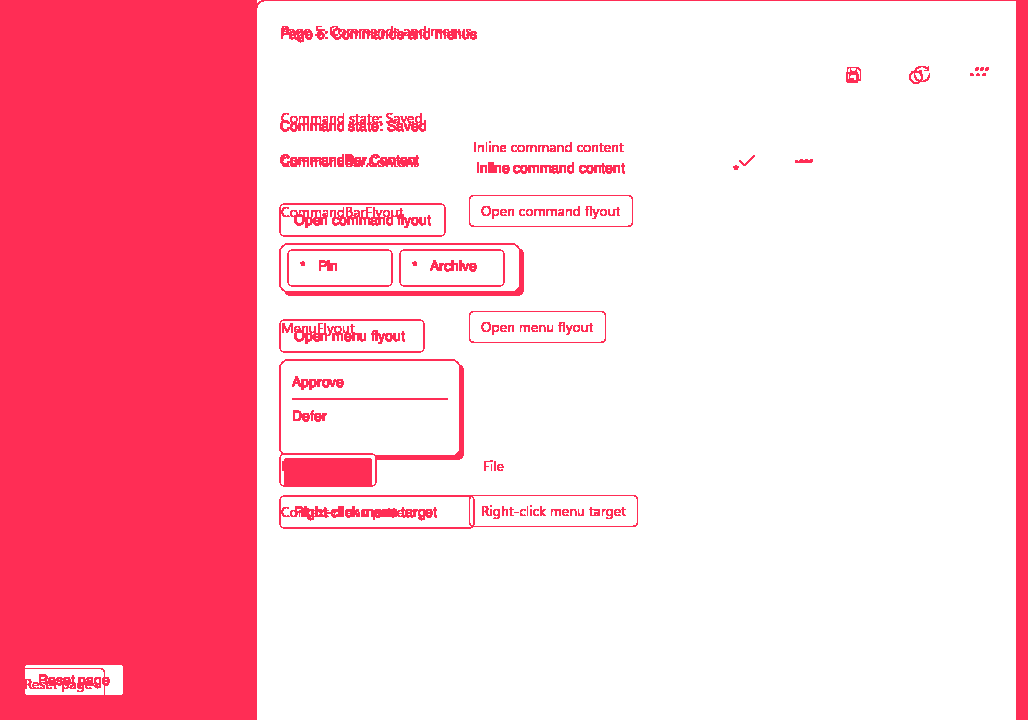
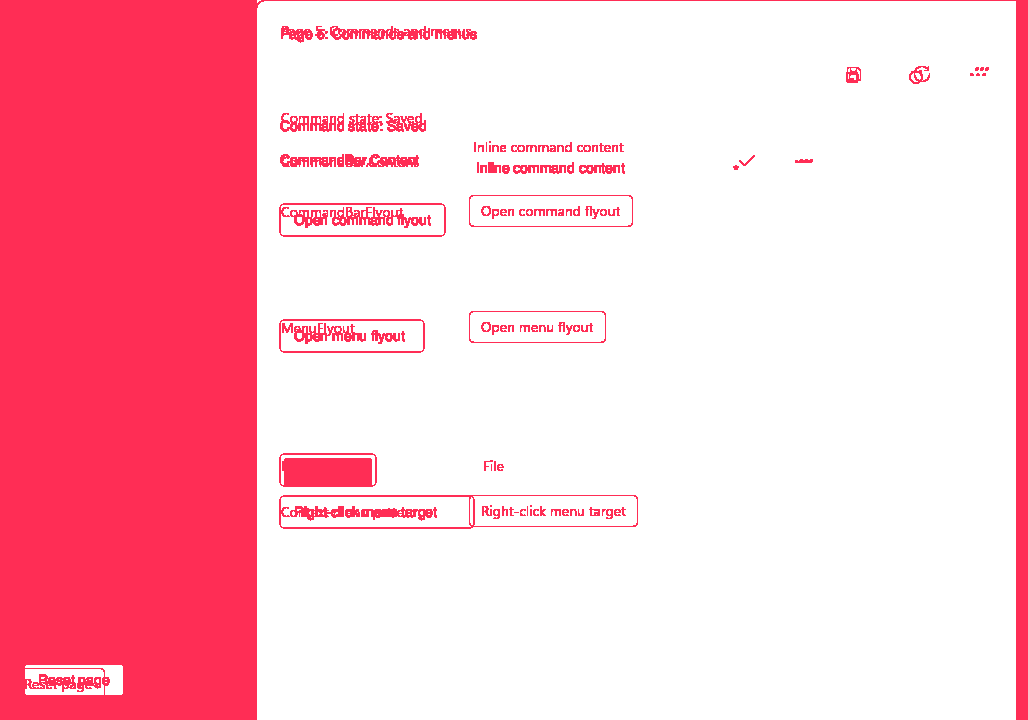
fix: keep commands menu evidence static

Changed region(s): [[0.2802, 0.3361, 0.5292, 0.4278], [0.3735, 0.5194, 0.4669, 0.6417], [0.2802, 0.5194, 0.3424, 0.5806]]

diff --git a/docs/visual-parity/examples/component-commands-menus-light/visual-review.html b/docs/visual-parity/examples/component-commands-menus-light/visual-review.html
@@ -197,7 +197,7 @@ img { display: block; max-width: 100%; height: auto; margin: 0 auto; }
 </figure>
 </div>
 <p class="notes">Native reference integrity: Native and macOS crop dimensions differ. Native crop is 164x32; macOS crop is 165x32. Phase -1 does not normalize crop sizes.</p>
-<p class="notes">Reviewed native WinUI, macOS runtime, and diff crops. Retained the documented source-level harness grade; nativeQualityGrade remains not-evaluated because the current renderer evidence does not establish native-quality WinUI parity. Documented gaps: CommandBarFlyout open state and command invocation are supported for clean-room smoke scenarios; native placement, overflow, and dismissal semantics remain partial.</p>
+<p class="notes">Reviewed native WinUI, macOS runtime, and diff crops. Retained the documented source-level harness grade; nativeQualityGrade remains not-evaluated because the current renderer evidence only establishes a visible static CommandBarFlyout host target, not native-quality popup parity. Documented gaps: CommandBarFlyout exports a visible host target in the static command fixture; open popup state, command invocation, native placement, overflow, and dismissal semantics remain partial and are not promoted by this base evidence.</p>
 </section>
 <section class="component">
 <h2>MenuFlyout <code>DiagnosticMenuFlyout</code></h2>
@@ -230,7 +230,7 @@ img { display: block; max-width: 100%; height: auto; margin: 0 auto; }
 </figure>
 </div>
 <p class="notes">Native reference integrity: Native and macOS crop dimensions differ. Native crop is 137x32; macOS crop is 144x32. Phase -1 does not normalize crop sizes.</p>
-<p class="notes">Reviewed native WinUI, macOS runtime, and diff crops. Retained the documented source-level harness grade; nativeQualityGrade remains not-evaluated because the current renderer evidence does not establish native-quality WinUI parity. Documented gaps: MenuFlyout open state and item invocation are supported for clean-room smoke scenarios; native placement, keyboarding, and dismissal semantics remain partial.</p>
+<p class="notes">Reviewed native WinUI, macOS runtime, and diff crops. Retained the documented source-level harness grade; nativeQualityGrade remains not-evaluated because the current renderer evidence only establishes a visible static MenuFlyout host target, not native-quality popup parity. Documented gaps: MenuFlyout exports a visible host target in the static command fixture; open popup state, item invocation, native placement, keyboarding, and dismissal semantics remain partial and are not promoted by this base evidence.</p>
 </section>
 <section class="component">
 <h2>MenuBar <code>DiagnosticMenuBar</code></h2>

diff --git a/tests/WinUI3.MacRuntime.Tests/MacRuntimeTests.cs b/tests/WinUI3.MacRuntime.Tests/MacRuntimeTests.cs
@@ -2236,6 +2236,36 @@ public sealed class MacRuntimeTests
     }
 
     [TestMethod]
+    public async Task PublicCommandsMenusScenarioKeepsPopupStateOutOfStaticNativeReference()
+    {
+        var scenarioPath = Path.Combine(
+            FindRepositoryRoot(),
+            "fixtures",
+            "ComponentParityLab.WinUI",
+            "scenarios",
+            "component-commands-menus-light.json");
+        var scenario = await VisualScenario.LoadAsync(scenarioPath);
+        var popupInteractionTypes = new[] { "openPopup", "invokeMenuItem" };
+
+        foreach (var action in scenario.Interactions)
+        {
+            CollectionAssert.DoesNotContain(
+                popupInteractionTypes,
+                action.Type,
+                "The public commands/menus base scenario is static native-reference evidence; open popup state belongs in explicit open-popup diagnostics.");
+        }
+
+        foreach (var requirement in scenario.Requirements.Where(requirement =>
+            requirement.Component is "CommandBarFlyout" or "MenuFlyout"))
+        {
+            CollectionAssert.DoesNotContain(
+                requirement.RequiredProperties.ToArray(),
+                "open-popup",
+                $"'{requirement.Component}' must not require open-popup evidence in the static public commands/menus scenario.");
+        }
+    }
+
+    [TestMethod]
     public async Task ComponentLabScenariosCoverDownstreamSourceAuditGaps()
     {
         var repositoryRoot = FindRepositoryRoot();

diff --git a/docs/compatibility/component-support.md b/docs/compatibility/component-support.md
@@ -108,7 +108,7 @@ Latest inspected native comparison counts:
 | `component-basic-input-light` / `component-basic-input-checked-light` | Native-reference strict visual comparison for the base light scenario is checked in and currently fails the native-quality threshold; checked-state native comparison remains a CI artifact concern. | Base scenario has 13 `usable` rows and zero `not-rendered` rows; checked-state scenario has 3 `usable`. Component targets include layout regions; native chrome remains approximate and not manually promoted. |
 | `component-status-pickers-light` / `component-status-pickers-loading-light` / `component-status-pickers-success-light` | Local strict runs passed without a local Windows reference path; native reference comparison remains a CI artifact concern. | Base scenario has 3 `usable`, 7 planned `not-rendered`; loading and success scenarios add 4 `usable` state rows. Success-state evidence was regenerated with nonblank crops for `InfoBar` and `ProgressBar`. |
 | `component-dialogs-flyouts-light` | Local strict run passed without a local Windows reference path; native reference comparison remains a CI artifact concern. | `ContentDialog`, `Flyout`, and `ToolTip` are `usable` with passed open/dismiss interaction evidence; `TeachingTip` and tooltip service remain planned `not-rendered`. |
-| `component-commands-menus-light` | Native-reference strict visual comparison is checked in and currently fails the native-quality threshold. | 8 `usable` rows and zero `not-rendered`; `CommandBarFlyout` and `MenuFlyout` have passed open/invoke interaction evidence, while `CommandBar.Content`, `MenuBar`, and context menu target export remain static partial evidence. |
+| `component-commands-menus-light` | Native-reference strict visual comparison is checked in and currently fails the native-quality threshold. | 8 `usable` rows and zero `not-rendered`; `CommandBarFlyout` and `MenuFlyout` are static host-target evidence in this public comparison, while open/invoke popup behavior remains separate source-level diagnostic evidence until matching native popup reference capture exists. |
 | `component-layout-media-light` | Native-reference strict visual comparison is checked in and currently fails the native-quality threshold. | 21 `usable`, 7 planned/non-goal `not-rendered`, including usable `SymbolIcon`, `XamlControlsResources`, `Color`, `Expander`, annotated scrollbar, `SemanticZoom`, `SplitView`, `TwoPaneView`, theme dictionary, `ThemeResource`, `SolidColorBrush`, and `CornerRadius` evidence with layout regions. |
 | `component-layout-media-dark` / `component-layout-media-high-contrast` | Local strict runs passed without local Windows reference paths; native reference comparison remains a CI artifact concern. | 6 `usable` resource/layout smoke targets in each theme; `ThemeResource` resolves to theme-specific foreground values. |
 | `public-admin-workbench-light` | Local strict run passed without a local Windows reference path; native reference comparison remains a CI artifact concern. | 9 `usable`, no missing component regions; visually it is a simplified workbench scaffold, not native-quality parity. |
@@ -126,8 +126,8 @@ Latest inspected native comparison counts:
 | `NavigationViewItem` | partial | Content, tag metadata, selected state, tree export, and `skia-v2` item chrome are present. | Full Fluent item states and keyboarding remain gaps. |
 | `CommandBar` | supported | `PrimaryCommands`, command click simulation, public fixture ingestion, and `skia-v2` command surface rendering are present. | Overflow, pointer states, focus visuals, and exact native spacing remain gaps. |
 | `AppBarButton` | supported | Label, icon slot metadata, click event hookup, command-bar fixture coverage, and `skia-v2` label/icon chrome are present. | Overflow placement, focus visuals, and exact native command sizing remain gaps. |
-| `CommandBarFlyout` | partial | Open state, primary/secondary command export, `invokeMenuItem` command invocation, accessibility expanded state, and `skia-v2` popup chrome are present for public smoke scenarios. | Native placement, overflow, dismissal semantics, focus trapping, and full keyboarding remain gaps. |
-| `MenuFlyout` | partial | Open state, menu item export, `invokeMenuItem` item invocation, accessibility popup/menuitem roles, and `skia-v2` menu chrome are present for public smoke scenarios. | Native placement, light-dismiss, accelerator text, disabled item behavior, and full keyboarding remain gaps. |
+| `CommandBarFlyout` | partial | The public native comparison covers the visible static host target; source-level open/invoke smoke diagnostics exist but are not promoted as native visual popup evidence. | Native popup placement, overflow, dismissal semantics, focus trapping, and full keyboarding remain gaps. |
+| `MenuFlyout` | partial | The public native comparison covers the visible static host target; source-level open/invoke smoke diagnostics exist but are not promoted as native visual popup evidence. | Native popup placement, light-dismiss, accelerator text, disabled item behavior, and full keyboarding remain gaps. |
 | `Button` | supported | Content, command, click simulation, accessibility export, and `skia-v2` button chrome are present. | Native pressed, hover, focus, and template visuals remain approximate. |
 | `ToggleButton` | supported | Checked state, click behavior, and `skia-v2` checked/disabled chrome are present. | Native pressed, hover, focus, and template visuals remain approximate. |
 | `CheckBox` | supported | Checked state, tree export, accessibility role, and `skia-v2` glyph chrome are present. | Indeterminate state and full template visuals remain gaps. |

diff --git a/docs/release/production-evidence-view.md b/docs/release/production-evidence-view.md
@@ -88,7 +88,7 @@ Promotion is evidence-backed:
 | Phase 2: Component crop and reference tooling | Implemented | `component-evidence.json` carries crop metadata, native reference provenance, and effective per-component thresholds; `visual-run.json` points to the crop directory and generated visual review page; `visual-review.html` places native, macOS, and diff crops side by side with reference source/run/commit provenance; strict visual fails claimed supported/partial rows with missing, blank, `not-rendered`, or over-threshold crops. |
 | Phase 3: Fluent token and theme foundation | Implemented | `skia-v2` painters use a centralized token layer for light, dark, high contrast, typography, fills, strokes, status colors, focus, selected chrome, disabled surfaces, radius, and popup elevation. |
 | Phase 4: Ring 0 Windows chrome completion | Implemented for the documented source-level subset | Ring 0 strict scenarios cover shell, layout, text, commands, forms, workbench, status/progress, resources/theme, state scenarios, and artifacts; claimed supported/partial rows require at least `usable`. |
-| Phase 5: Ring 1 E2E visual completion | Implemented for claimed subsets | Open-popup, selected collection, and layout/theme scenarios cover claimed `MenuFlyout`, `CommandBarFlyout`, `MenuBar` static chrome, context-menu target export, `ContentDialog`, `Flyout`, `ToolTip`, collection hosts, theme dictionaries, `SolidColorBrush`, and `CornerRadius`; rich input, templates, broader keyboarding, advanced collections, `TeachingTip`, and menu popup behavior remain planned diagnostics. |
+| Phase 5: Ring 1 E2E visual completion | Implemented for claimed subsets | Static command/menu scenarios cover claimed `MenuFlyout` and `CommandBarFlyout` host targets, `MenuBar` static chrome, and context-menu target export; open-popup diagnostics remain source-level smoke evidence unless a matching native popup reference is captured. Selected collection and layout/theme scenarios cover collection hosts, theme dictionaries, `SolidColorBrush`, and `CornerRadius`; rich input, templates, broader keyboarding, advanced collections, `TeachingTip`, and menu popup behavior remain planned diagnostics. |
 | Phase 6: All-126 catalog closure | Implemented | `docs/compatibility/all-catalog-readiness-audit.json` accounts for all 126 entries with a per-entry production disposition, owner phase, primary blocker, evidence profile, and release gate; `winui3-mac-runner catalog-audit --check` fails on drift and the audit agrees with the inventory buckets. |
 | Phase 7: Broader WinUI control inventory | Inventory and gate implemented; controls pending promotion | `docs/compatibility/winui-component-inventory.json` `broaderControlInventory` enumerates 20 prioritized public WinUI controls with target family, required states, priority, and promotion exit criteria (`docs/compatibility/broader-control-inventory.md`); the honesty gate keeps every control `not-rendered` until it carries matching catalog status, visual evidence, and interaction coverage. |
 | Phase 8: Materials, motion, and high-fidelity polish | Registry, motion/contrast rules, and drift dashboard implemented; surfaces pending promotion | `docs/compatibility/material-motion-approximations.json` documents every Mica, Acrylic, backdrop, shadow, transform, compositor, and motion surface as a deterministic approximation target or explicit exclusion with reduced-motion, high-contrast, and provenance rules and no OS composition claim; `docs/visual-parity/visual-drift-dashboard.json` gates component-crop drift and keeps whole-screen drift informational with values read from the checked-in pixel-diff artifacts. |
@@ -254,7 +254,7 @@ the support claim.
 
 | Family | Current status | Claim boundary |
 | --- | --- | --- |
-| Menus and flyouts | Partial | `MenuFlyout` and `CommandBarFlyout` open/invoke subset, static `MenuBar` chrome, context-menu target export, and split/dropdown button chrome are usable when claimed; disabled item behavior, menu popup behavior, native placement, light-dismiss, and broad keyboarding remain incomplete. |
+| Menus and flyouts | Partial | `MenuFlyout` and `CommandBarFlyout` static host targets, static `MenuBar` chrome, context-menu target export, and split/dropdown button chrome are usable when claimed; open/invoke popup behavior remains source-level diagnostic until matching native popup evidence exists. Disabled item behavior, menu popup behavior, native placement, light-dismiss, and broad keyboarding remain incomplete. |
 | Rich form input | Planned | `PasswordBox`, `NumberBox`, `AutoSuggestBox`, `Slider`, and `ToggleSwitch` are diagnostic rows only. |
 | Dialog decisions | Partial | `ContentDialog`, `Flyout`, and `ToolTip` open-state subset is usable when claimed; `TeachingTip`, tooltip service, modal focus trapping, placement, and full action relationships remain incomplete. |
 | Templates and collections | Planned except partial hosts | Collection hosts have subset evidence; `DataTemplate`, item templates, `ItemsRepeater`, `GridView`, virtualization, and template visuals remain missing. |
@@ -271,7 +271,7 @@ visual-review fixtures, not the current production grade source.
 | --- | --- | --- |
 | `public-admin-workbench-light` | Whole-image comparison fails with 99.988381% changed pixels over a 45% threshold. | Current public artifacts show 9 `usable` workbench scaffold rows, not native-quality parity. |
 | `component-basic-input-light` | Whole-image comparison fails with 30.145914% changed pixels over an 18% threshold. | Current public artifacts show 13 `usable` rows and zero `not-rendered` rows; native control chrome remains approximate and not manually promoted. |
-| `component-commands-menus-light` | Whole-image comparison fails with 29.206388% changed pixels over a 24% threshold. | Current public artifacts show 8 `usable` rows and zero `not-rendered` rows; command/flyout/MenuBar surfaces remain simplified and not manually promoted. |
+| `component-commands-menus-light` | Whole-image comparison fails with 28.416018% changed pixels over a 24% threshold. | Current public artifacts show 8 `usable` rows and zero `not-rendered` rows; command/static flyout host/MenuBar surfaces remain simplified and not manually promoted. |
 | `component-layout-media-light` | Whole-image comparison fails with 44.828821% changed pixels over a 24% threshold. | Current public artifacts show 21 `usable` and 7 planned/non-goal `not-rendered` rows; media, web, ink, animation, shapes, and materials remain outside the claim. |
 
 Fresh support status is determined by catalog status, strict scenario

diff --git a/docs/visual-parity/comparisons.md b/docs/visual-parity/comparisons.md
@@ -56,7 +56,7 @@ Historical checked-in examples:
 | --- | --- | ---: | ---: | ---: | ---: | --- |
 | `public-admin-workbench-light` | failed | 99.988381% | 45% | 9.678085 | 36.397928 | 9 `usable` |
 | `component-basic-input-light` | failed | 30.145914% | 18% | 9.611153 | 39.380451 | 13 `usable`, zero `not-rendered` |
-| `component-commands-menus-light` | failed | 29.206388% | 24% | 8.181183 | 35.857094 | 8 `usable`, zero `not-rendered` |
+| `component-commands-menus-light` | failed | 28.416018% | 24% | 7.920517 | 35.461129 | 8 `usable`, zero `not-rendered` |
 | `component-layout-media-light` | failed | 44.828821% | 24% | 13.06852 | 44.114842 | 21 `usable`, 7 `not-rendered` |
 
 Current inspected local macOS artifacts:
@@ -64,7 +64,7 @@ Current inspected local macOS artifacts:
 | Scenario | Current status | Component evidence | Interpretation |
 | --- | --- | --- | --- |
 | `component-basic-input-light` / `component-basic-input-checked-light` | failed against native reference for the base light scenario; checked-state smoke remains historical | Base scenario has 13 `usable` rows and zero `not-rendered`; checked-state scenario has 3 `usable` | Recognizable controls with improved static chrome; final native inspection, automation state, and interaction coverage remain incomplete. |
-| `component-commands-menus-light` | failed against native reference | 8 `usable`, zero `not-rendered` | Command, flyout, MenuBar, content-slot, and context-target scaffold exists; native menu/command fidelity and final inspection remain incomplete. |
+| `component-commands-menus-light` | failed against native reference | 8 `usable`, zero `not-rendered` | Command, static flyout host, MenuBar, content-slot, and context-target scaffold exists; popup state and native menu/command fidelity remain incomplete. |
 | `component-status-pickers-light` / `component-status-pickers-loading-light` / `component-status-pickers-success-light` | passed | Base scenario has 3 `usable`, 7 planned `not-rendered`; loading and success scenarios add 4 `usable` | Status/progress scaffold exists with regenerated success evidence; native animation and close/action areas remain gaps. |
 | `component-layout-media-light` | failed against native reference | 21 `usable`, 7 planned/non-goal `not-rendered` | Layout/resource/icon/adaptive-container scaffold exists for static diagnostics; media, web, ink, animation, shapes, and materials remain excluded or planned. |
 | `public-admin-workbench-light` | passed | 9 `usable` | Workbench scaffold is usable for smoke/E2E checks; it is not native-quality parity. |

diff --git a/docs/compatibility/matrix.md b/docs/compatibility/matrix.md
@@ -127,7 +127,7 @@ See `component-support.md` for a readable component-by-component support table.
 | `ComboBox` | supported | Items, selected item/index, placeholder, tree export, layout, and `skia-v2` painter for public fixtures. |
 | `ProgressRing`, `ProgressBar`, `InfoBar` | supported | State/value/severity metadata, tree export, layout, and `skia-v2` painters for public fixtures. |
 | `CommandBar`, `AppBarButton` | supported | Primary commands, labels, click simulation, tree export, layout, and `skia-v2` painters for public fixtures. |
-| `CommandBarFlyout`, `MenuFlyout` | partial | Open state, command/menu item invocation, accessibility popup/menuitem metadata, layout, and `skia-v2` popup painters for public smoke scenarios. |
+| `CommandBarFlyout`, `MenuFlyout` | partial | Static host targets are covered in the checked-in public native comparison; source-level open/invoke diagnostics exercise popup metadata and `skia-v2` popup painters without promoting native popup visual parity. |
 | `ScrollViewer`, `ContentControl`, `ItemsControl` | supported | Single-slot or item collection containment, tree export, layout, and `skia-v2` support for public fixtures. |
 | `ContentDialog`, `Flyout`, `ToolTip` | partial | Open state, dialog/flyout/tooltip metadata, accessibility expanded state, layout, and `skia-v2` popup painters for public smoke scenarios. |
 | `Image`, `ListView` | partial | Logical model plus `skia-v2` placeholder/list painters for public scenarios. |

diff --git a/docs/compatibility/production-component-targets.md b/docs/compatibility/production-component-targets.md
@@ -73,7 +73,7 @@ production smoke foundation.
 
 | Component family | Components and patterns | Current catalog status | Public fixture scenario | Required interaction coverage | Required accessibility coverage | Target visual grade | Smoke or E2E target | Current blocker |
 | --- | --- | --- | --- | --- | --- | --- | --- | --- |
-| Menus and flyouts | `MenuBar`, `MenuFlyout`, `CommandBarFlyout`, context menu pattern, `DropDownButton`, `SplitButton`, `ToggleSplitButton` | partial for `MenuFlyout`, `CommandBarFlyout`, `MenuBar` static chrome, context-menu target export, `DropDownButton`, `SplitButton`, and `ToggleSplitButton` | `component-commands-menus-light`, `component-basic-input-light` | open and invoke item for supported flyouts; dismiss, disabled item assertion, MenuBar submenu interaction, context menu dispatch, and broader controls still planned | popup/menuitem roles and expanded state for supported flyouts; accelerator text, MenuBar expanded state, context-menu state, and split/dropdown automation states still planned | `usable` for supported flyouts when claimed | command/menu E2E flow | Native placement, light-dismiss, keyboarding, disabled items, MenuBar submenu behavior, context-menu popup behavior, and split/dropdown popup behavior remain incomplete. |
+| Menus and flyouts | `MenuBar`, `MenuFlyout`, `CommandBarFlyout`, context menu pattern, `DropDownButton`, `SplitButton`, `ToggleSplitButton` | partial for `MenuFlyout` and `CommandBarFlyout` static host targets, `MenuBar` static chrome, context-menu target export, `DropDownButton`, `SplitButton`, and `ToggleSplitButton` | `component-commands-menus-light`, `component-basic-input-light` | static host/target export for checked-in native evidence; open and invoke item diagnostics remain source-level until matching native popup evidence exists; dismiss, disabled item assertion, MenuBar submenu interaction, context menu dispatch, and broader controls still planned | static host/target names for checked-in evidence; popup/menuitem roles, expanded state, accelerator text, MenuBar expanded state, context-menu state, and split/dropdown automation states still planned | `usable` for supported static targets when claimed | command/menu E2E flow | Native placement, light-dismiss, keyboarding, disabled items, MenuBar submenu behavior, context-menu popup behavior, and split/dropdown popup behavior remain incomplete. |
 | Rich form input | `PasswordBox`, `NumberBox`, `AutoSuggestBox`, `AutoSuggestBox.QueryIcon`, `Slider`, `ToggleSwitch` | partial for `Slider` and `ToggleSwitch`; planned for the rest | `component-text-forms-light`, `component-basic-input-light` | focus, type/change value, suggestions or selection, checked/value assertion | edit/spin/slider/switch roles, values, checked state, query icon name | `usable` when claimed | data-bound form E2E flow | `Slider` and `ToggleSwitch` have static rendered evidence only; interaction, automation value/toggle state, and final native inspection remain incomplete. |
 | Dialog decisions | `ContentDialog`, `Flyout`, `TeachingTip`, `ToolTip`, `ToolTipService.SetToolTip` | partial for `ContentDialog`, `Flyout`, and `ToolTip`; planned for `TeachingTip` and tooltip service | `component-dialogs-flyouts-light` | open/dismiss for supported dialog and popup surfaces; primary/secondary action and tooltip target assertion still planned | dialog/popup/tooltip roles and expanded state for supported surfaces; full button relationships still planned | `usable` for supported surfaces when claimed | dialog/flyout decision E2E flow | Native modal behavior, placement, focus trapping, light-dismiss, `TeachingTip`, and `ToolTipService.SetToolTip` remain incomplete. |
 | Templates and collections | `DataTemplate`, `ItemsControl.ItemTemplate`, `ListView.ItemTemplate`, `ItemsRepeater`, `GridView` | planned except partial collection hosts | `component-collections-light` | item generation, list/grid selection, detail update | item roles, selected state, template text names | `usable` when claimed | list/detail E2E flow | Template parsing, container visuals, virtualization, and item chrome are missing. |

diff --git a/docs/release/production-readiness.md b/docs/release/production-readiness.md
@@ -139,7 +139,7 @@ Latest inspected native comparison status for checked-in historical examples:
 | --- | --- | ---: | ---: | ---: | --- |
 | `public-admin-workbench-light` | failed | 99.988381% / threshold 45% | 9.678085 | 36.397928 | 9 `usable`; not a visual-fidelity pass. |
 | `component-basic-input-light` | failed | 30.145914% / threshold 18% | 9.611153 | 39.380451 | 13 `usable`, zero `not-rendered`; not a visual-fidelity pass. |
-| `component-commands-menus-light` | failed | 29.206388% / threshold 24% | 8.181183 | 35.857094 | 8 `usable`, zero `not-rendered`; not a visual-fidelity pass. |
+| `component-commands-menus-light` | failed | 28.416018% / threshold 24% | 7.920517 | 35.461129 | 8 `usable`, zero `not-rendered`; not a visual-fidelity pass. |
 | `component-layout-media-light` | failed | 44.828821% / threshold 24% | 13.06852 | 44.114842 | 21 `usable`, 7 `not-rendered`; not a visual-fidelity pass. |
 
 Current harness component status is sourced from fresh